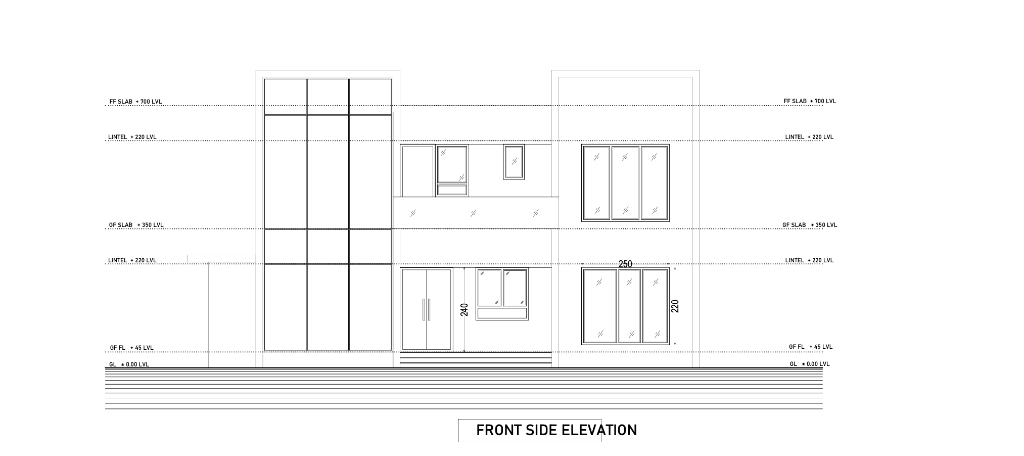
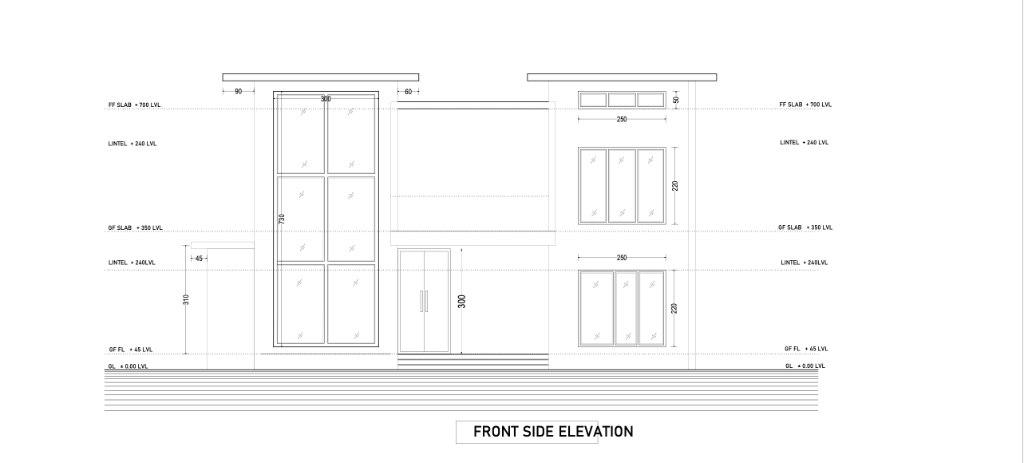
added designs
LiveReview Pre-Commit Check: skipped (iter:1, coverage:0%)

diff --git a/index.html b/index.html
@@ -87,11 +87,9 @@
       </div>
 
       <div class="behance-cover-right">
-        <div class="cover-drawing-frame" onclick="openLightbox('assets/elevation_front.png', 'FRONT SIDE ELEVATION', 'Architectural line drawing detailing floor levels, lintels, and elevation dimensions for the front facade.')" style="cursor: pointer;">
-          <img src="assets/elevation_front.png" alt="Front Side Architectural Elevation" class="cover-drawing-img">
-          <div class="cover-drawing-caption">
-            <span>FRONT SIDE ELEVATION — ARCHITECTURAL DRAFTING</span>
-          </div>
+        <!-- Single Cover Image Fitted Perfectly -->
+        <div class="cover-single-wrapper" onclick="openLightbox('assets/electrical_drawing_uploaded.jpg', 'GROUND & FIRST FLOOR PLAN (ELECTRICAL LAYOUT)', 'Ground & First Floor Plan Electrical Layout Details 29-01-2026.')">
+          <img src="assets/electrical_drawing_uploaded.jpg" alt="Ground & First Floor Electrical Layout Plan" class="cover-single-img">
         </div>
         <div class="cover-accent-stripe"></div>
       </div>
@@ -144,7 +142,7 @@
   <section class="behance-project-section" id="projects">
     <div class="container" id="project-overview">
       <div class="project-page-card">
-        <div class="project-page-grid">
+        <div class="project-page-grid project-page-grid--full">
           
           <!-- Left Column: Details & Description -->
           <div class="project-page-left">
@@ -171,17 +169,6 @@
               <span class="maroon-tag">Sectional Drafting</span>
               <span class="maroon-tag">Construction Details</span>
             </div>
-          </div>
-
-          <!-- Right Column: B/W Axonometric Model / Section View -->
-          <div class="project-page-right">
-            <div class="dashed-drawing-box" onclick="openLightbox('assets/section_pq.png', '01 ARCHITECTURAL & STRUCTURAL MODEL - SECTION PQ', 'Detailed vertical section illustrating foundation footings, ground floor, first floor slab levels, staircase, and spatial openings.')">
-              <img src="assets/section_pq.png" alt="Revit Architectural Section Model" class="dashed-drawing-img">
-              <div class="drawing-hover-overlay">
-                <span class="hover-btn"><i class="fa-solid fa-magnifying-glass-plus"></i> View Full HD Sheet</span>
-              </div>
-            </div>
-            <span class="drawing-sub-caption">SECTION ON PQ — ARCHITECTURAL & STRUCTURAL DRAWING</span>
           </div>
 
         </div>
@@ -333,6 +320,35 @@
             <div class="render-inspect-overlay">
               <button class="btn btn-primary btn-lg">
                 <i class="fa-solid fa-expand"></i> Inspect High-Res Render
+              </button>
+            </div>
+          </div>
+        </div>
+
+      </div>
+    </div>
+  </section>
+
+  <!-- Electrical Floor Plan Layout Section (After 3D Photorealistic Exterior Render) -->
+  <section class="behance-render-section" id="project-electrical">
+    <div class="container">
+      <div class="render-card-wrapper">
+        <div class="render-header text-center">
+          <span class="maroon-badge"><i class="fa-solid fa-bolt"></i> ELECTRICAL LAYOUT DETAILS</span>
+          <h2 class="render-main-title">GROUND & FIRST FLOOR PLAN (ELECTRICAL LAYOUT)</h2>
+          <p class="render-sub-desc">Comprehensive electrical layout detailing switch boards, lighting points, CCTV, exhaust fans, water purifier, and distribution board legends</p>
+        </div>
+
+        <div class="render-hero-display">
+          <div class="render-full-image-box" onclick="openLightbox('assets/electrical_drawing_uploaded.jpg', 'GROUND & FIRST FLOOR PLAN (ELECTRICAL LAYOUT)', 'Detailed electrical working drawing showing Ground Floor & First Floor Layouts with complete Symbol/Code tables for Ceiling Fans, LED Panel Lights, Tube Lights, CCTV, AC Units, Distribution Boards, and Wall Fittings.')">
+            <div class="render-image-backdrop">
+              <div class="render-facade-graphic">
+                <img src="assets/electrical_drawing_uploaded.jpg" alt="Ground & First Floor Plan Electrical Layout" class="render-facade-img">
+              </div>
+            </div>
+            <div class="render-inspect-overlay">
+              <button class="btn btn-primary btn-lg">
+                <i class="fa-solid fa-expand"></i> Inspect High-Res Electrical Layout
               </button>
             </div>
           </div>

diff --git a/style.css b/style.css
@@ -783,38 +783,155 @@ a {
   flex-wrap: wrap;
 }
 
+/* Cover slider container */
 .behance-cover-right {
   position: relative;
   height: 100%;
   min-height: 480px;
   display: flex;
-  align-items: center;
-  justify-content: center;
+  align-items: stretch;
+  justify-content: flex-start;
   background: #FFFFFF;
-  padding: 2rem;
   border-left: 1px solid var(--border-color);
+  overflow: hidden;
+  padding: 0;
 }
 
-.cover-drawing-frame {
+/* Vertical dot sidebar */
+.cover-slider-sidebar {
+  position: absolute;
+  left: 0;
+  top: 50%;
+  transform: translateY(-50%);
+  z-index: 10;
+  display: flex;
+  flex-direction: column;
+  gap: 10px;
+  padding: 0.75rem 0.5rem;
+  background: rgba(255,255,255,0.92);
+  border-right: 1px solid var(--border-color);
+  border-radius: 0 8px 8px 0;
+  box-shadow: 2px 0 12px rgba(0,0,0,0.08);
+}
+
+.cover-dot {
+  width: 10px;
+  height: 10px;
+  border-radius: 50%;
+  border: 2px solid #8B2626;
+  background: transparent;
+  cursor: pointer;
+  padding: 0;
+  transition: background 0.25s, transform 0.2s;
+  display: block;
+}
+
+.cover-dot.active {
+  background: #8B2626;
+  transform: scale(1.3);
+}
+
+[data-theme="dark"] .cover-slider-sidebar {
+  background: rgba(30,30,30,0.92);
+  border-color: var(--border-color);
+}
+
+[data-theme="dark"] .cover-dot {
+  border-color: #E57373;
+}
+
+[data-theme="dark"] .cover-dot.active {
+  background: #E57373;
+}
+
+/* Slider track */
+.cover-slider-track {
+  display: flex;
+  flex-direction: row;
   width: 100%;
   height: 100%;
+  overflow: hidden;
+  transition: transform 0.45s cubic-bezier(0.77, 0, 0.175, 1);
+}
+
+/* Each individual slide */
+.cover-slide {
+  min-width: 100%;
+  width: 100%;
+  height: 100%;
+  min-height: 480px;
   display: flex;
   flex-direction: column;
   align-items: center;
   justify-content: center;
   position: relative;
+  cursor: pointer;
+  padding: 2rem 2rem 2rem 3rem;
+  box-sizing: border-box;
+  transition: background 0.3s;
+}
+
+.cover-slide:hover {
+  background: rgba(0,0,0,0.02);
 }
 
 .cover-drawing-img {
-  max-width: 95%;
-  max-height: 400px;
+  max-width: 100%;
+  max-height: 380px;
   object-fit: contain;
   filter: contrast(1.05);
+  border-radius: 4px;
+  transition: transform 0.3s;
+}
+
+.cover-drawing-img--color {
+  filter: none;
+  box-shadow: 0 4px 20px rgba(0,0,0,0.1);
+}
+
+.cover-slide:hover .cover-drawing-img {
+  transform: scale(1.01);
+}
+
+/* Slide type label badge */
+.cover-slide-label {
+  position: absolute;
+  top: 1rem;
+  right: 1.5rem;
+  font-family: var(--font-mono);
+  font-size: 0.65rem;
+  font-weight: 700;
+  letter-spacing: 1.5px;
+  color: #555;
+  background: rgba(255,255,255,0.92);
+  border: 1px solid #ccc;
+  border-radius: 4px;
+  padding: 0.25rem 0.6rem;
+  text-transform: uppercase;
+  pointer-events: none;
+  z-index: 6;
+}
+
+.cover-slide-label--electrical {
+  color: #fff;
+  background: #d97706;
+  border-color: #b45309;
+}
+
+[data-theme="dark"] .cover-slide-label {
+  background: rgba(30,30,30,0.92);
+  border-color: var(--border-color);
+  color: var(--text-muted);
+}
+
+[data-theme="dark"] .cover-slide-label--electrical {
+  background: #d97706;
+  border-color: #b45309;
+  color: #fff;
 }
 
 .cover-drawing-caption {
-  position: absolute;
-  bottom: -10px;
+  margin-top: 1rem;
   font-family: var(--font-mono);
   font-size: 0.7rem;
   letter-spacing: 1.5px;
@@ -823,6 +940,13 @@ a {
   padding: 0.25rem 0.75rem;
   border: 1px solid #DDDDDD;
   border-radius: 4px;
+  text-align: center;
+}
+
+[data-theme="dark"] .cover-drawing-caption {
+  background: rgba(30,30,30,0.95);
+  border-color: var(--border-color);
+  color: var(--text-muted);
 }
 
 .cover-accent-stripe {
@@ -832,7 +956,9 @@ a {
   bottom: 0;
   width: 18px;
   background: #C2A684;
+  z-index: 5;
 }
+
 
 @media (max-width: 992px) {
   .behance-cover-container {
@@ -848,6 +974,13 @@ a {
     min-height: 360px;
     border-left: none;
     border-top: 1px solid var(--border-color);
+  }
+  .cover-slide {
+    min-height: 360px;
+    padding: 1.5rem 1.5rem 1.5rem 2.5rem;
+  }
+  .cover-drawing-img {
+    max-height: 280px;
   }
 }
 

diff --git a/script.js b/script.js
@@ -9,6 +9,7 @@ document.addEventListener('DOMContentLoaded', () => {
   initProjectFilters();
   initModalListeners();
   initLightboxPan();
+  initCoverSlider();
 });
 
 /* --------------------------------------------------------------------------
@@ -396,3 +397,72 @@ function handleFormSubmit(e) {
     }, 1000);
   }
 }
+
+/* --------------------------------------------------------------------------
+   8. Cover Page Image Slider (Intro Page)
+   -------------------------------------------------------------------------- */
+function initCoverSlider() {
+  const track = document.getElementById('coverSliderTrack');
+  const dots = document.querySelectorAll('.cover-dot');
+
+  if (!track || !dots.length) return;
+
+  let currentSlide = 0;
+  const totalSlides = dots.length;
+  let autoplayTimer = null;
+
+  function goToSlide(index) {
+    currentSlide = (index + totalSlides) % totalSlides;
+    track.style.transform = `translateX(-${currentSlide * 100}%)`;
+
+    dots.forEach((dot, i) => {
+      dot.classList.toggle('active', i === currentSlide);
+    });
+  }
+
+  // Dot click handlers
+  dots.forEach(dot => {
+    dot.addEventListener('click', (e) => {
+      e.stopPropagation();
+      const slideIndex = parseInt(dot.getAttribute('data-slide'), 10);
+      goToSlide(slideIndex);
+      resetAutoplay();
+    });
+  });
+
+  // Auto-play every 4 seconds
+  function startAutoplay() {
+    autoplayTimer = setInterval(() => {
+      goToSlide(currentSlide + 1);
+    }, 4000);
+  }
+
+  function resetAutoplay() {
+    clearInterval(autoplayTimer);
+    startAutoplay();
+  }
+
+  // Pause autoplay when hovering over the slider
+  if (track.parentElement) {
+    track.parentElement.addEventListener('mouseenter', () => clearInterval(autoplayTimer));
+    track.parentElement.addEventListener('mouseleave', startAutoplay);
+  }
+
+  // Touch/swipe support
+  let touchStartX = 0;
+  track.addEventListener('touchstart', (e) => {
+    touchStartX = e.touches[0].clientX;
+  }, { passive: true });
+
+  track.addEventListener('touchend', (e) => {
+    const deltaX = e.changedTouches[0].clientX - touchStartX;
+    if (Math.abs(deltaX) > 40) {
+      goToSlide(deltaX < 0 ? currentSlide + 1 : currentSlide - 1);
+      resetAutoplay();
+    }
+  }, { passive: true });
+
+  goToSlide(0);
+  startAutoplay();
+}
+
